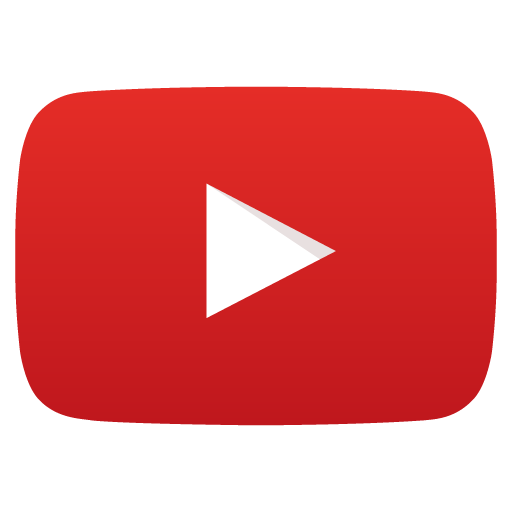
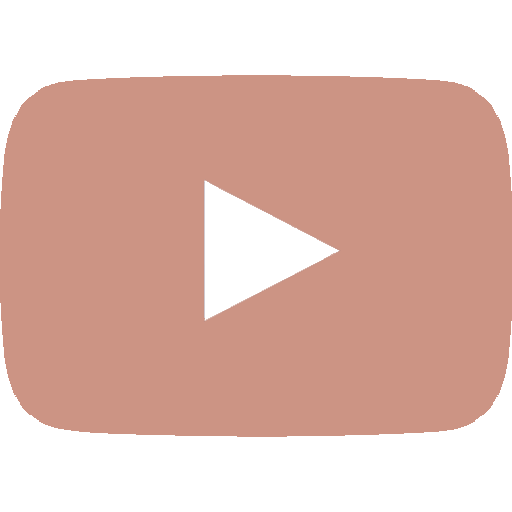
Colour Theme Changed

diff --git a/stylesheets/styles.css b/stylesheets/styles.css
@@ -6,7 +6,7 @@ body, html {
 }
 
 body {
-    background: #EEEEEE;
+    background: #fff0db;
     color: #000000;
     font-family: 'Roboto Condensed', sans-serif;
     font-size: 14px;
@@ -86,20 +86,20 @@ a:-webkit-any-link {
     }
 
     .project_link a { color: #555555; }
-    .project_link a:hover { background: #FFD54F; color: #000000; }
-    .project_link a:active { background: #FFD54F; color: #f2f2f2;}
+    .project_link a:hover { background: #cc9484; color: #ffffff; }
+    .project_link a:active { background: #cc9484; color: #f2f2f2;}
 
     .page_link a { color: #555555; }
-    .page_link a:hover { background: #FFD54F; color: #000000; }
-    .page_link a:active { background: #FFD54F; color: #f2f2f2; }
+    .page_link a:hover { background: #cc9484; color: #ffffff; }
+    .page_link a:active { background: #cc9484; color: #f2f2f2; }
 
     .link_link a { color: #555555; text-decoration: underline; }
-    .link_link a:hover { background: #000000; color: #000000; }
-    .link_link a:active { background: #FFD54F; color: #f2f2f2; }
+    .link_link a:hover { background: #ffffff; color: #ffffff; }
+    .link_link a:active { background: #cc9484; color: #f2f2f2; }
 
-    .nav_active a { background: #FFC107; color: #ffffff; }
-    .nav_active a:hover { background: #FFC107; color: #ffffff; }
-    .nav_active a:active  { background:#FFC107; color:#ffffff; }
+    .nav_active a { background: #e0a594; color: #ffffff; }
+    .nav_active a:hover { background: #e0a594; color: #ffffff; }
+    .nav_active a:active  { background:#e0a594; color:#ffffff; }
 
     .pagination { color: #999999; font-size: 11px; margin: 0 18px 0 0; z-index:11; }
     .bottompad .pagination { margin-left: 35px; }
@@ -110,13 +110,13 @@ a:-webkit-any-link {
     .nav_follow { color: #999999; font-size: 11px; z-index: 11; }
     .nav_follow a { color: #999999; text-decoration: underline; }
     .nav_follow a:hover { background: #999999; color: #222222; }
-    .nav_follow a:active { background: #FFC107; color: #ffffff; }
+    .nav_follow a:active { background: #e0a594; color: #ffffff; }
 
     .view_tag_info { color: #999999; padding-left: 3px; font-size: 11px; }
 
     .view_tag_info a { color: #0066ff; }
-    .view_tag_info a:hover { background: #999999; color: #000000; }
-    .view_tag_info a:active { background:#FFC107; color: #ffffff; } /* Any colours with this code #FFC107 were changed */
+    .view_tag_info a:hover { background: #999999; color: #ffffff; }
+    .view_tag_info a:active { background:#cc9484; color: #ffffff; } /* Any colours with this code #FFC107 were changed */
 
     /* Content > Thumbnails
     ***************************************************************************************************/
@@ -282,7 +282,7 @@ section {
     padding-right:20px;
 }
 section.title {
-    background: #00BCD4;
+    background: #3a4660;
     padding-top:15px;
     padding-bottom:10px;
     /* box-shadow: 0px 6px 10px #E0E0E0;  Silk colour */
